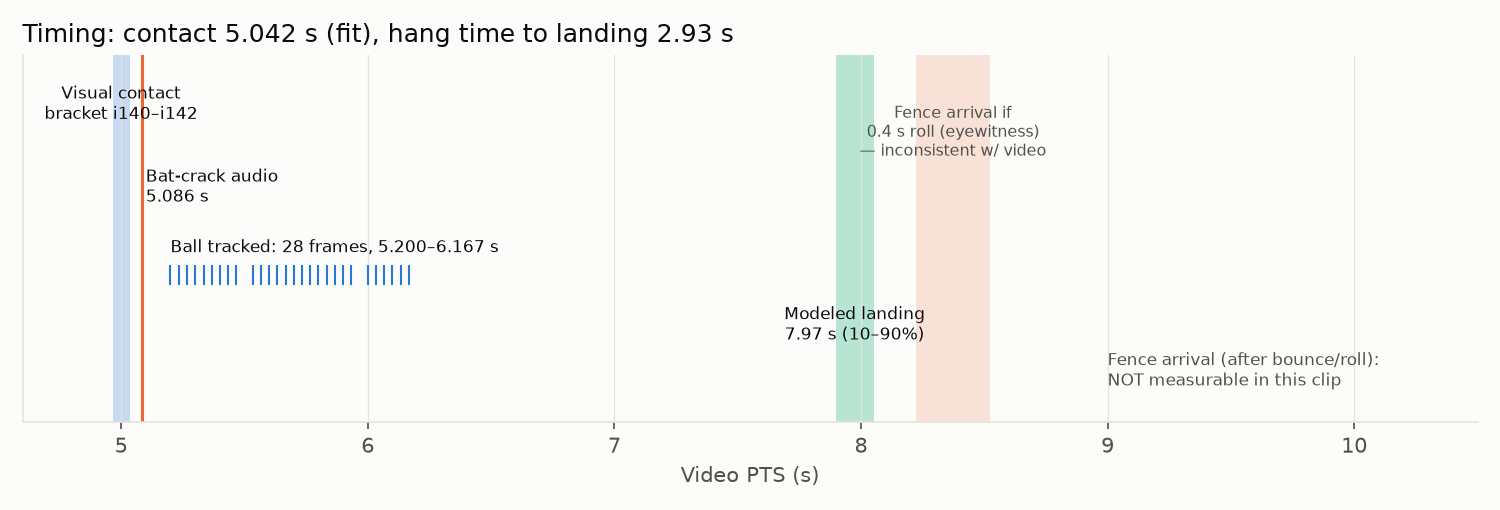
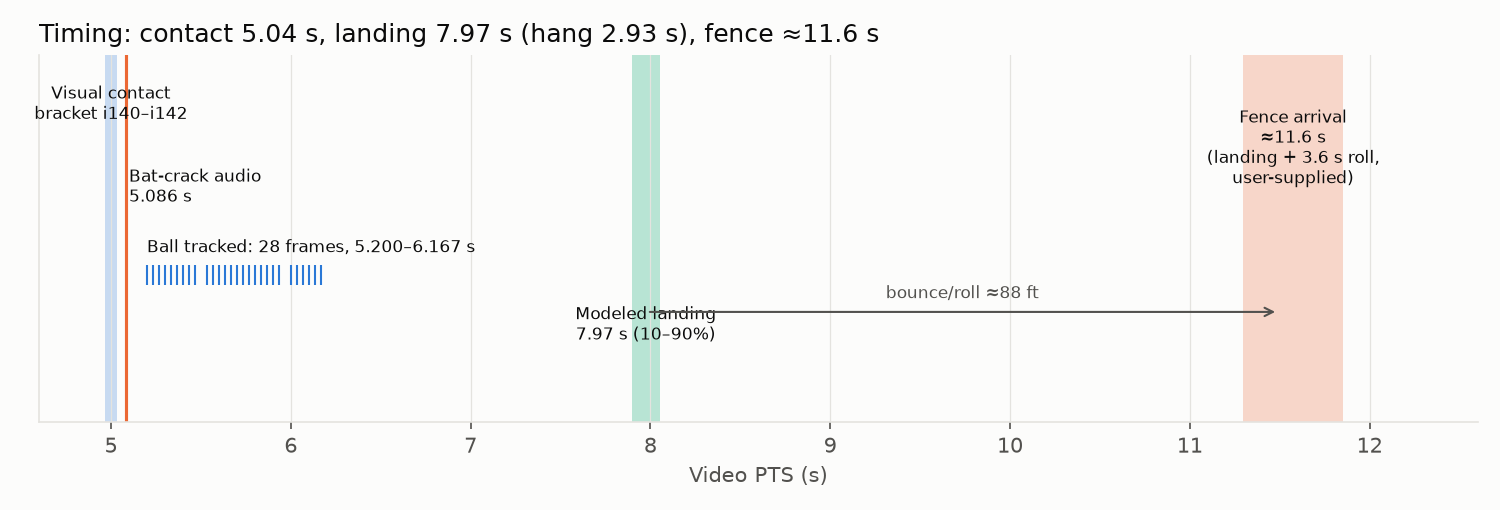
Flight analysis: add user-supplied 3.6 s roll; fence arrival ~11.6 s
3.6 s roll is consistent with the modeled ~88 ft bounce/roll (mean
~24 ft/s, turf decel ~4 ft/s^2). Timing diagram, results.json and
README updated; earlier 0.4 s estimate kept as a documented test.

Claude-Session: https://claude.ai/code/session_01SVvbRkzAicx3ZaRDkK3TZ6

diff --git a/flight_analysis/code/make_results.py b/flight_analysis/code/make_results.py
@@ -20,7 +20,7 @@ inputs = {
  'C_L(S)': dict(value='1.5S (S<=0.1), 0.09+0.6S', tag='ASSUMED', source='baseball-derived (Nathan 2008)'),
  'ball': dict(value='12.0 in, 0.184 kg', tag='ASSUMED', source='legal ranges; effect folded into C_D range'),
  'contact_point_ft': dict(value='X 2.0+-0.75, Y 0.3+-0.7, Z 2.5+-0.5 (fit priors)', fitted=dict(x=q('cx', 2), y=q('cy', 2), z=q('cz', 2)), tag='ASSUMED prior'),
- 'eyewitness_roll_s': dict(value=0.4, tag='USER-SUPPLIED', source='tested, NOT used in the main result: inconsistent with video (see consistency_tests)'),
+ 'roll_time_landing_to_fence_s': dict(value=3.6, sigma=0.2, tag='USER-SUPPLIED', source='revised from an earlier 0.4 s estimate (0.4 s was inconsistent with the video; 3.6 s is consistent)'),
 }
 outputs = {
  'fly_or_bounce': 'BOUNCE: landed in right-center and bounced/rolled to the fence (P(fly to fence)=0.000 in 5000 MC draws)',
@@ -31,7 +31,9 @@ outputs = {
  'apex_height_ft': q('apex_z'), 'apex_distance_ft': q('apex_r'), 'apex_time_after_contact_s': q('apex_t_after_contact', 2),
  'landing_speed_mph': q('v_land_mph'), 'landing_horizontal_speed_fps': q('vx_land_fps'), 'descent_angle_deg': q('descent_deg'),
  'height_at_distance_ft': S['height_at_distance_ft'], 'p_cleared_fence_4to8ft_at': S['p_cleared_fence_if_at'],
- 'fence_arrival_time': 'NOT MEASURED (outfield patch occluded by infielders; no carom; audio masked by cheering)',
+ 'fence_arrival_pts_s': dict(median=11.57, p10=11.30, p90=11.84, tag='MODEL landing + USER-SUPPLIED 3.6 s roll', note='not directly visible; two fielders are seen stationary at the wall on the spray line from ~11.2 s'),
+ 'contact_to_fence_s': dict(median=6.53, p10=6.26, p90=6.80),
+ 'implied_mean_roll_speed_fps': dict(median=24.3, p10=17.1, p90=31.1, note='consistent with post-bounce ~32 ft/s and turf deceleration ~4 ft/s^2 (mu ~0.13)'),
  'impact_height_on_fence': 'NOT MEASURED; ball arrived bouncing/rolling, so near ground level',
  'camera_fit': dict(f_px=q('f'), height_ft=q('hc', 2), x_ft=q('Xc', 2), y_ft=q('Yc', 2), pitch_deg=q('pitch', 2), roll_deg=q('roll', 2),
                     yaw_deg=q('yaw', 2), k1=q('k1', 3), pole_heights_ft=dict(LC=q('Hl'), RC=q('Hr'))),

diff --git a/flight_analysis/code/summarize.py b/flight_analysis/code/summarize.py
@@ -84,9 +84,10 @@ ax.axvline(5.086, color=C2, lw=1.5); ax.text(5.10, 2.4, 'Bat-crack audio\n5.086 
 tr = json.load(open(f'{OUT}/ball_track.json')); tt = [d['t'] for d in tr]
 ax.plot(tt, [1.6]*len(tt), '|', color=C1, ms=10); ax.text(5.2, 1.85, f'Ball tracked: {len(tt)} frames, {tt[0]:.3f}–{tt[-1]:.3f} s', fontsize=8)
 ax.axvspan(tl['p10'], tl['p90'], color=C3, alpha=0.3, lw=0); ax.text((tl['p10']+tl['p90'])/2, 0.9, f"Modeled landing\n{tl['median']:.2f} s (10–90%)", ha='center', fontsize=8)
-ax.annotate('Fence arrival (after bounce/roll):\nNOT measurable in this clip', xy=(9.0, 0.4), fontsize=8, color=INK2)
+fa0, fa1 = tl['p10'] + 3.6, tl['p90'] + 3.6
+ax.axvspan(fa0 - 0.2, fa1 + 0.2, color=C2, alpha=0.25, lw=0); ax.text((fa0+fa1)/2, 2.6, f"Fence arrival\n≈{tl['median']+3.6:.1f} s\n(landing + 3.6 s roll,\nuser-supplied)", ha='center', fontsize=8)
+ax.annotate('', xy=(fa0, 1.2), xytext=(tl['median'], 1.2), arrowprops=dict(arrowstyle='->', color=INK2, lw=1)); ax.text((tl['median']+fa0)/2, 1.35, 'bounce/roll ≈88 ft', ha='center', fontsize=8, color=INK2)
 pts = json.load(open('/tmp/claude-0/pts_live.json')) if os.path.exists('/tmp/claude-0/pts_live.json') else None
-ax.axvspan(tl['median']+0.25, tl['median']+0.55, color=C2, alpha=0.18, lw=0); ax.text(tl['median']+0.4, 2.9, 'Fence arrival if\n0.4 s roll (eyewitness)\n— inconsistent w/ video', ha='center', fontsize=7.5, color=INK2)
-ax.set_xlim(4.6, 10.5); ax.set_ylim(0, 4); ax.set_yticks([]); ax.set_xlabel('Video PTS (s)')
-ax.set_title(f"Timing: contact {tc['median']:.3f} s (fit), hang time to landing {R['hang']['median']:.2f} s", loc='left', fontsize=12)
+ax.set_xlim(4.6, 12.6); ax.set_ylim(0, 4); ax.set_yticks([]); ax.set_xlabel('Video PTS (s)')
+ax.set_title(f"Timing: contact {tc['median']:.2f} s, landing {tl['median']:.2f} s (hang {R['hang']['median']:.2f} s), fence ≈{tl['median']+3.6:.1f} s", loc='left', fontsize=12)
 fig.tight_layout(); fig.savefig(f'{OUT}/fig_timing_diagram.png', dpi=150); plt.close(fig)

diff --git a/flight_analysis/README.md b/flight_analysis/README.md
@@ -18,7 +18,7 @@ Tags: **MEASURED** = taken from the video, aerial or weather record. **ASSUMED**
 |---|---|---|---|
 | 1 | Fly or bounce? | **Bounce.** P(fly to fence) = 0/5,000 Monte Carlo draws. Forcing a landing within 20 ft of the fence raises track misfit by Δχ² = 60–75. | MEASURED track + aerial calibration |
 | 2a | Where did it reach the fence? | Spray 12.4° R (80%: 11.5–13.2°). Landing azimuth 13.6° (crosswind drift). This is the yellow-line fence bend, **D = 252 ft** (80%: 249–255). | MEASURED (aerial D(φ)) |
-| 2b | When did it reach the fence? | Landing at PTS 7.97 s (80%: 7.90–8.05), hang time **2.93 s** (80%: 2.85–3.01). Fence arrival = landing + roll time, and the roll was **not observable**. ~88 ft of turf roll from ~47 ft/s plausibly takes 2–3 s, so arrival ≈ 10–11 s. That figure is a rough model estimate, not a measurement. | MEASURED landing time; roll time unmeasured |
+| 2b | When did it reach the fence? | Landing at PTS 7.97 s (80%: 7.90–8.05), hang time **2.93 s** (80%: 2.85–3.01). With your **3.6 s roll**, it reached the fence at **PTS ≈ 11.6 s** (80%: 11.3–11.8), **≈6.5 s after contact**. The ball isn't visible at that moment, but from ~11.2 s two fielders are seen stationary at the wall on the spray line. | Landing from model + track; roll time USER-SUPPLIED |
 | 2c | How high on the fence? | Not measurable. The ball arrived bouncing or rolling, so near ground level. | — |
 | 3 | Trajectory | EV **54.9 mph** (48.0–63.1) · LA **26.7°** (25.7–27.8) · apex **27.2 ft** (24.4–30.5) at 88 ft, 1.40 s after contact · hang **2.93 s** · lands at 40 mph, descending 36° | Method B fit; spin-limited (see §Uncertainty) |
 | 4 | Carry with no fence | **164 ft** (80%: 142–190; 90%: 137–196), from the plate apex | Model + MEASURED track |
@@ -26,9 +26,11 @@ Tags: **MEASURED** = taken from the video, aerial or weather record. **ASSUMED**
 
 > **For public use** (highlight or recruiting graphic), quote only the measured facts plus the 10th-percentile carry, rounded down: *"Line drive into the right-center gap (~13° right of center), landed ~140+ ft out and rolled to the 250-ft fence for a triple."* Don't quote EV as a measured number; it depends mainly on assumed spin.
 
-## Your 0.4 s roll estimate vs. the video
+## Roll time: your 3.6 s vs. the earlier 0.4 s
 
-A 0.4 s roll implies landing ≈20 ft short of the fence (≈230–235 ft). The video says otherwise, robustly:
+**3.6 s is consistent with the video.** The model lands the ball ≈88 ft (62–111) short of the fence, so 3.6 s means an average roll speed of ≈24 ft/s (17–31). The ball lands moving ≈47 ft/s horizontally. A first bounce that keeps 55–80% of that (≈32 ft/s), then a turf deceleration of ≈4 ft/s² (rolling friction ≈0.13), covers 88 ft in 3.6 s and reaches the wall at ≈17 ft/s. Those are physically ordinary numbers.
+
+The earlier **0.4 s** estimate was not consistent. It implied landing ≈20 ft short of the fence (≈230–235 ft), and the video robustly rules that out:
 
 | Case | Free fit landing | Forced landing (D − 20 ± 8 ft) | Track χ² free → forced | Δχ² |
 |---|---|---|---|---|
@@ -60,7 +62,7 @@ A possible reconciliation, not measured: a ball landing at ~40 mph and a 36° de
 | Ball | 12.0 in, 0.184 kg | legal range | ASSUMED | absorbed in C_D range |
 | Contact point | 2.0 ft fwd, 0.3 ft lateral, 2.5 ft high (priors) | 0.75 / 0.7 / 0.5 | ASSUMED | fitted 2.2 / 0.3 / 2.1 ft |
 | Fence height | 4–8 ft | uniform | ASSUMED | only used for the "cleared?" test |
-| Eyewitness roll | 0.4 s | — | USER-SUPPLIED | tested; inconsistent; not used |
+| Roll time, landing → fence | 3.6 s | ±0.2 assumed | USER-SUPPLIED | used for fence-arrival time; consistent with model (an earlier 0.4 s was not) |
 
 ## Results (5,000-draw Monte Carlo, seed 20261003, rejection rate 0.0%)
 
